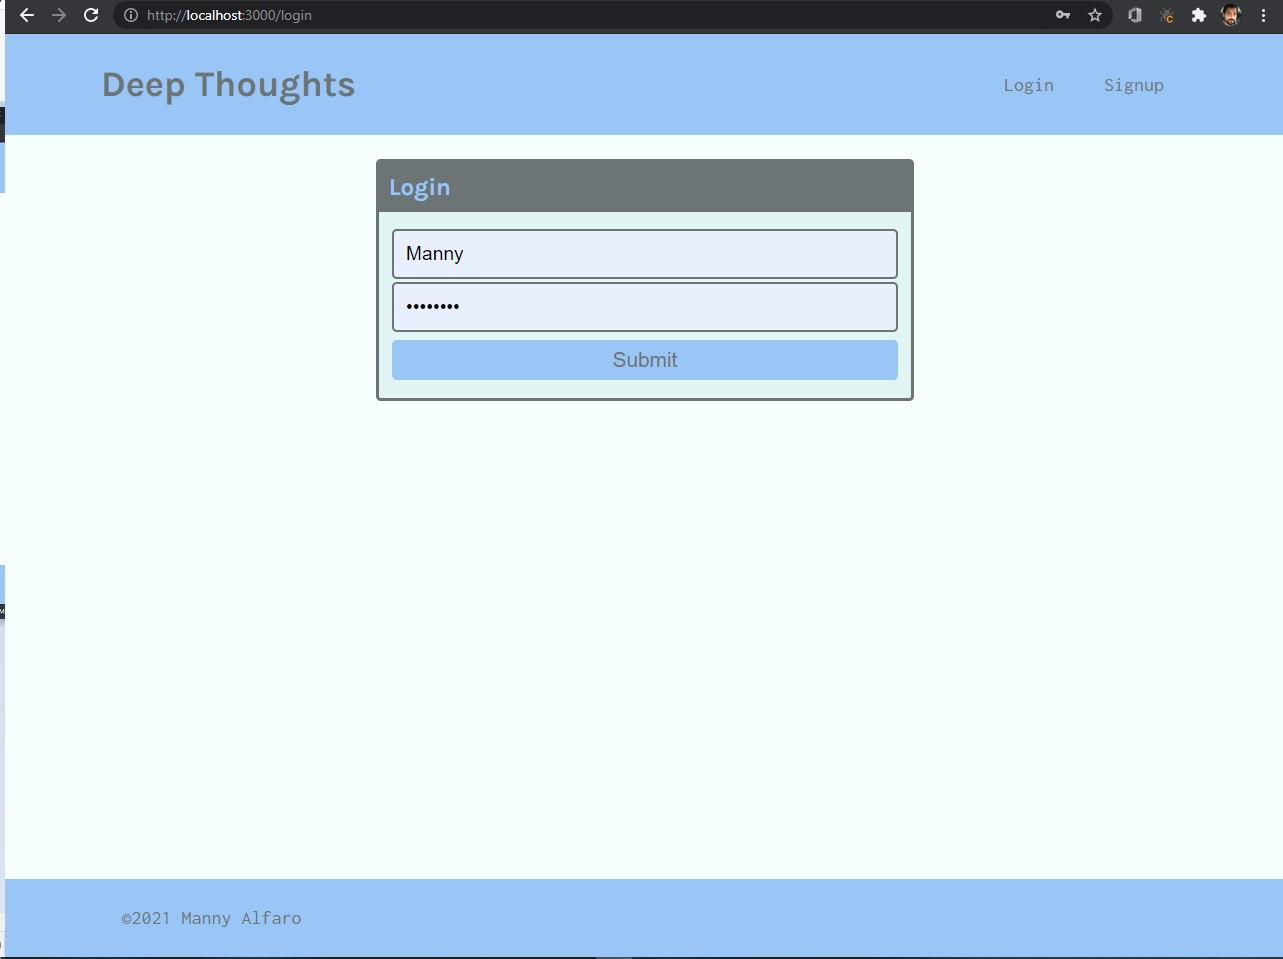
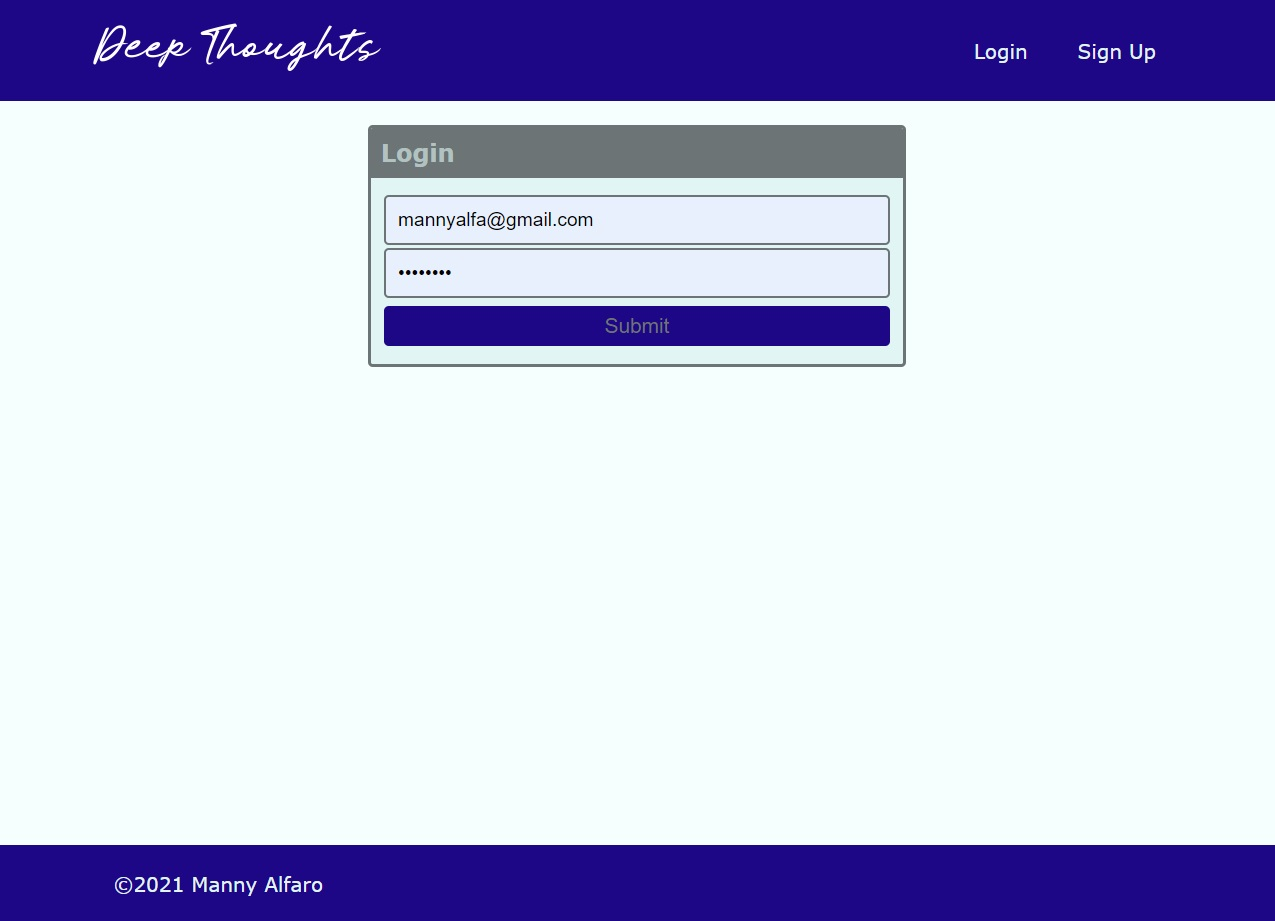
restyled css

Changed region(s): [[0.0, 0.0, 1.0, 0.4256], [0.0, 0.608, 1.0, 1.0]]

diff --git a/client/public/index.html b/client/public/index.html
@@ -11,20 +11,8 @@
   <meta name="theme-color" content="#000000" />
   <meta name="description" content="Web site created using create-react-app" />
   <link rel="apple-touch-icon" href="%PUBLIC_URL%/logo192.png" />
-  <!--
-      manifest.json provides metadata used when your web app is installed on a
-      user's mobile device or desktop. See https://developers.google.com/web/fundamentals/web-app-manifest/
-    -->
   <link rel="manifest" href="%PUBLIC_URL%/manifest.json" />
-  <!--
-      Notice the use of %PUBLIC_URL% in the tags above.
-      It will be replaced with the URL of the `public` folder during the build.
-      Only files inside the `public` folder can be referenced from the HTML.
 
-      Unlike "/favicon.ico" or "favicon.ico", "%PUBLIC_URL%/favicon.ico" will
-      work correctly both with client-side routing and a non-root public URL.
-      Learn how to configure a non-root public URL by running `npm run build`.
-    -->
   <title>Deep Thoughts</title>
 </head>
 
@@ -32,14 +20,6 @@
   <noscript>You need to enable JavaScript to run this app.</noscript>
   <div id="root"></div>
   <!--
-      This HTML file is a template.
-      If you open it directly in the browser, you will see an empty page.
-
-      You can add webfonts, meta tags, or analytics to this file.
-      The build step will place the bundled scripts into the <body> tag.
-
-      To begin the development, run `npm start` or `yarn start`.
-      To create a production bundle, use `npm run build` or `yarn build`.
     -->
 </body>
 

diff --git a/client/src/index.css b/client/src/index.css
@@ -1,6 +1,6 @@
 :root {
-  --primary: #2a4443;
-  --secondary: #99c5f7;
+  --primary: #000;
+  --secondary: #1e0786;
   --tertiary: #b2c2c1;
   --quatrinary: #cadbda;
   --light: #e1f5f4;
@@ -26,11 +26,11 @@ body {
 body {
   margin: 0;
   padding: 0;
-  font-family: 'Inconsolata', monospace;
+  font-family: Verdana, Geneva, Tahoma, sans-serif;
   font-weight: 400;
   line-height: 1.5;
   font-size: 20px;
-  color: var(--dark);
+  color: var(--light);
   background-color: #f3fffee1;
 }
 
@@ -40,7 +40,7 @@ h3,
 h4,
 h5,
 h6 {
-  font-family: 'Karla', sans-serif;
+  font-family: Verdana, Geneva, Tahoma, sans-serif;
   font-weight: 700;
   margin: 5px 0;
   line-height: 1.25;
@@ -56,6 +56,7 @@ h2 {
 
 h3 {
   font-size: 1.75rem;
+  color: var(--secondary);
 }
 
 h4 {
@@ -72,6 +73,7 @@ h6 {
 
 p {
   font-size: 1.1rem;
+  color: var(--secondary);
   margin-top: 0;
 }
 
@@ -141,7 +143,7 @@ nav a:hover {
 }
 
 .card-header {
-  color: var(--secondary);
+  color: var(--tertiary);
   margin: 0;
   background-color: var(--dark);
   padding: 0.625rem;
@@ -186,7 +188,7 @@ nav a:hover {
   cursor: pointer;
   line-height: 20px;
   display: inline-block;
-  color: var(--secondary);
+  color: var(--tertiary);
   margin-right: 0.2rem;
 }
 
@@ -792,8 +794,8 @@ nav a:hover {
   background-color: var(--light);
 }
 
-.bg-dark {
-  background-color: var(--dark);
+.bg-transparent {
+  background-color: transparent);
 }
 
 /* FLEX CONTENT */

diff --git a/client/src/components/Header/index.js b/client/src/components/Header/index.js
@@ -13,8 +13,7 @@ const Header = () => {
     <header className="bg-secondary mb-4 py-2 flex-row align-center">
       <div className="container flex-row justify-space-between-lg justify-center align-center">
         <Link to='/'>
-          <h1>Deep Thoughts</h1>
-        </Link>
+        <img src="https://fontmeme.com/permalink/211004/92c49000ccb03e03c69ab3d91133ebb3.png" alt="deep-thoughts" border="0"></img>        </Link>
         <nav className='text-center'>
           {Auth.loggedIn() ? (
             <>
@@ -24,7 +23,7 @@ const Header = () => {
           ) : (
               <>
                 <Link to='/login'>Login</Link>
-                <Link to='/signup'>Signup</Link>
+                <Link to='/signup'>Sign Up</Link>
               </>
             )}
         </nav>

diff --git a/client/src/pages/Profile.js b/client/src/pages/Profile.js
@@ -25,7 +25,7 @@ const Profile = () => {
   }
 
   if (loading) {
-    return <div>Loading...</div>;
+    return <div>Just a sec...</div>;
   }
 
   if (!user?.username) {
@@ -49,7 +49,7 @@ const Profile = () => {
   return (
     <div>
       <div className="flex-row mb-3">
-        <h2 className="bg-dark text-secondary p-3 display-inline-block">
+        <h2 className="bg-transparent text-secondary p-3 display-inline-block">
           Viewing {userParam ? `${user.username}'s` : 'your'} profile.
         </h2>
         {userParam && (

diff --git a/client/src/components/FriendList/index.js b/client/src/components/FriendList/index.js
@@ -3,7 +3,7 @@ import { Link } from 'react-router-dom';
 
 const FriendList = ({ friendCount, username, friends }) => {
     if (!friends || !friends.length) {
-        return <p className="bg-dark text-light p-3">{username}, make some friends!</p>;
+        return <p className="bg-transparent text-info p-3">{username}, make some friends!</p>;
     }
 
     return (

diff --git a/client/src/pages/Home.js b/client/src/pages/Home.js
@@ -25,7 +25,7 @@ const Home = () => {
         )}
         <div className={`col-12 mb-3 ${loggedIn && 'col-lg-8'}`}>
           {loading ? (
-            <div>Loading...</div>
+            <div>Just a sec...</div>
           ) : (
               <ThoughtList thoughts={thoughts} title='Some Feed for Thought(s)...' />
             )}

diff --git a/client/src/pages/SingleThought.js b/client/src/pages/SingleThought.js
@@ -16,7 +16,7 @@ const SingleThought = props => {
   const thought = data?.thought || {};
 
   if (loading) {
-    return <div>Loading...</div>;
+    return <div>Just a sec...</div>;
   }
 
   return (
